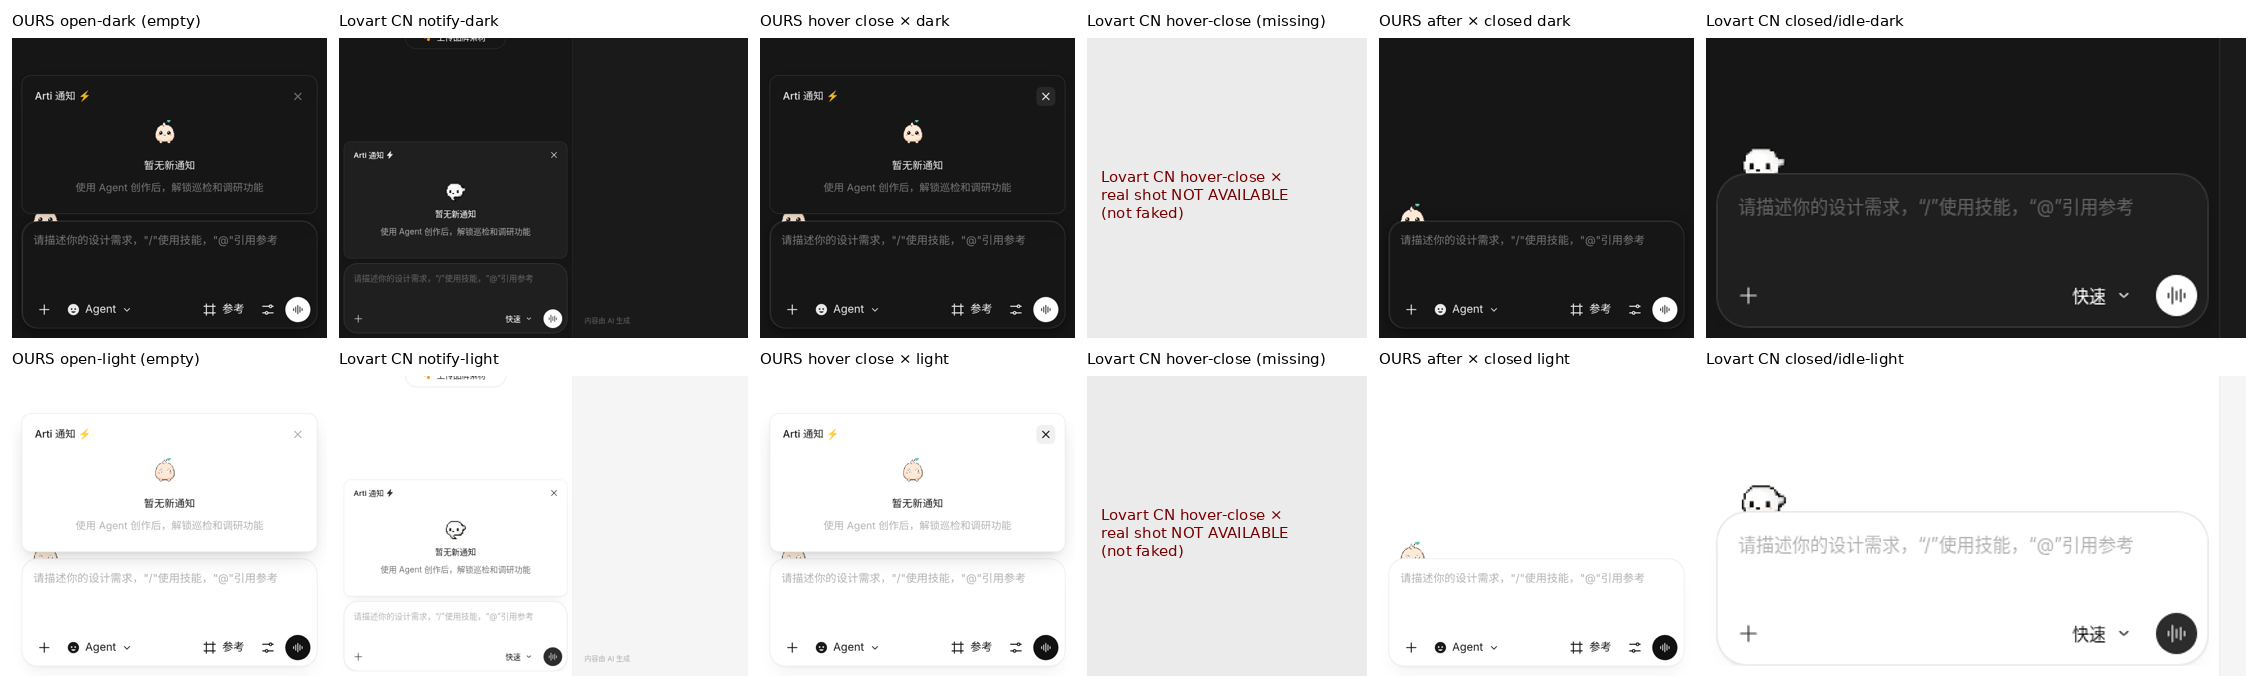
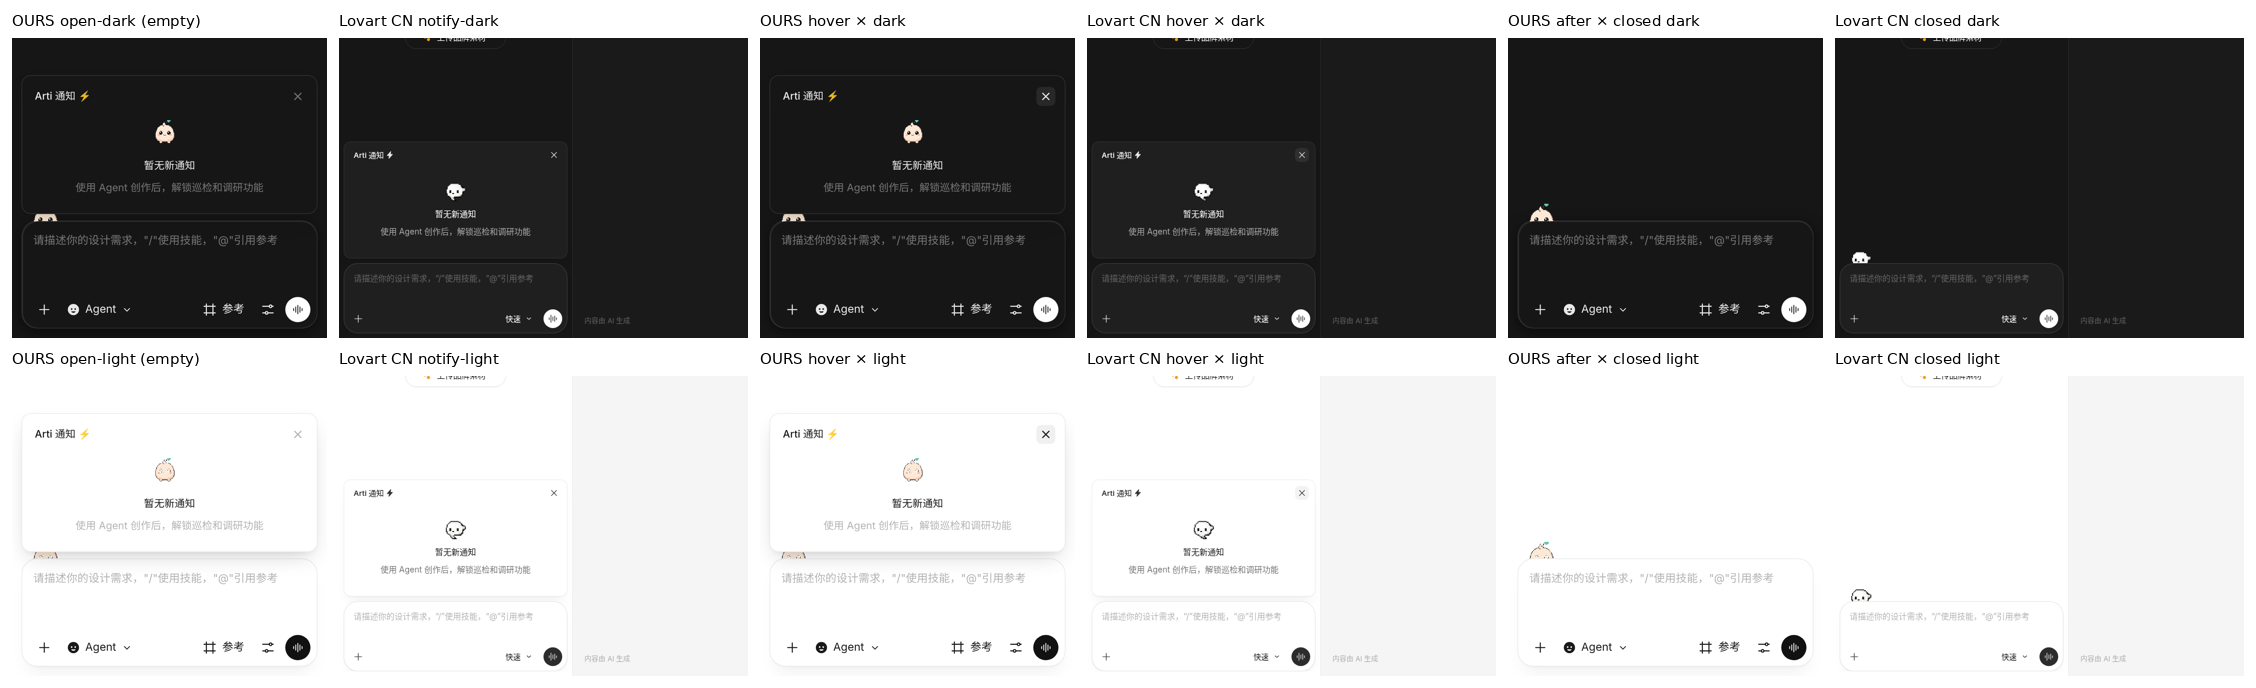
docs/test(#376): real Lovart CN hover-× and closed refs for all 6 #78 pairs; test close hover highlight

diff --git a/tests/test_arti_mascot_371.py b/tests/test_arti_mascot_371.py
@@ -219,3 +219,13 @@ def test_376_notify_panel_lovart_1to1() -> None:
     assert "align-items: center" in empty and "text-align: center" in empty
     # outside-click must not treat clicks inside the panel as outside
     assert "panel.contains(tgt)" in MASCOT
+
+
+def test_376_close_bare_icon_with_hover_highlight() -> None:
+    """Lovart CN: × is a bare icon; hover shows a small rounded-square highlight behind it."""
+    base = _rule(".arti-notify__close")
+    assert "background: transparent" in base and "border: none" in base
+    assert "border-radius: 6px" in base
+    i = SHELL.index(".arti-notify__close:hover {")
+    hov = SHELL[i:SHELL.index("}", i)]
+    assert "background: var(--ca-hover" in hov
